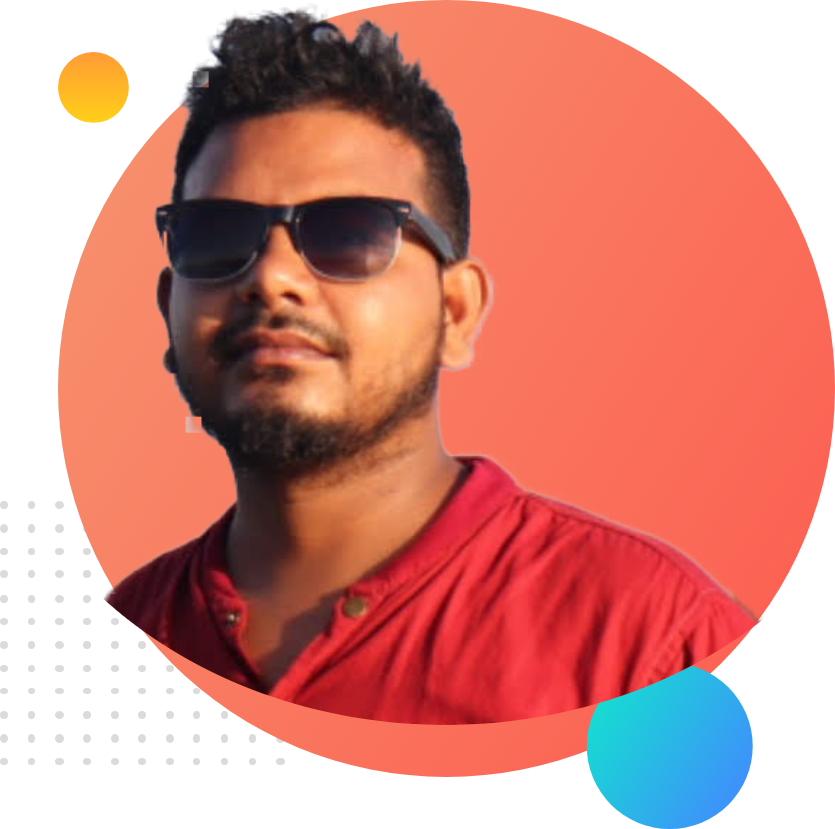
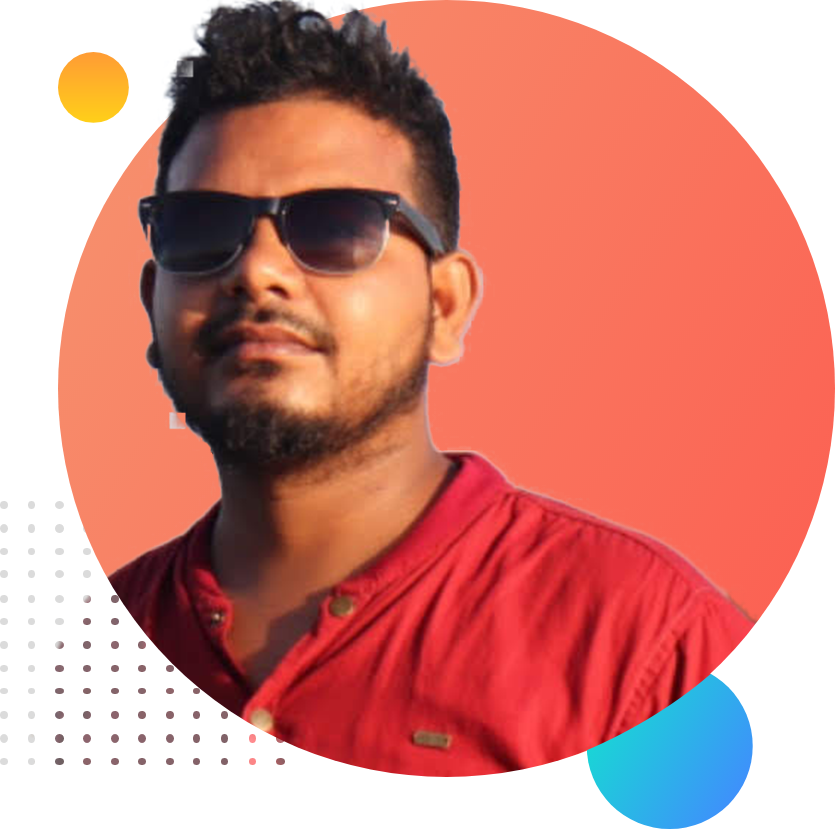
complete dream section

Changed region(s): [[0.0934, 0.0, 0.903, 0.9349], [0.0623, 0.8745, 0.0934, 0.9047]]

diff --git a/index.html b/index.html
@@ -23,18 +23,17 @@
         </div>
     </section>
 
-    <section class="tob-back">
+    <section >
         
         <div class="half-width">
-            <img src="images/my-bg (1).png" alt="">
+            <img src="images/dream pic2.png" alt="">
         </div>
 
         <div class="half-width">
-            <h1>Welcome to</h1>
-    <h1><span class="title-name">Murshed's</span> Website</h1>
-    <h3>I'am a web Proffessional Web Developer</h3>
+            <h2 class="dream">Big Dream</h2>
+    <h3>My Dream is become a good <span class="title-name">Programmer</span></h3>
     <p>I will make world calss website for you, I am Proffessional Developer, I develop back-end and Front-end of website. Most of time I use my won raw code to make website. that's why it's easily handlabel</p>
-    <a class="hire-button" href="https://www.linkedin.com/in/murshedkoli/" target="blank">Hire Me</a>
+    <a class="hire-button" href="#" target="blank">Download My Resume</a> <a class="hire-button" href="www.murshedkoli.com" target="blank">See My Resume</a>
         </div>
     </section>
 </body>

diff --git a/style.css b/style.css
@@ -37,4 +37,17 @@ section{
     font-weight: bold;
     text-decoration: none;
     border-radius: 5px;
+    transition-duration: 1.5s;
+}
+
+.hire-button:hover{
+    background-image: none;
+    border: 1px solid tomato;
+    color: tomato;
+}
+
+.dream{
+    color: tomato;
+    font-weight: bold;
+    font-size: 30px;
 }
